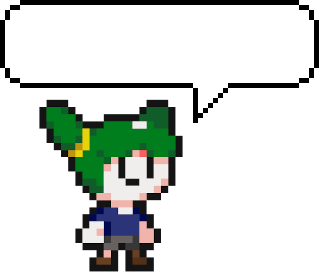
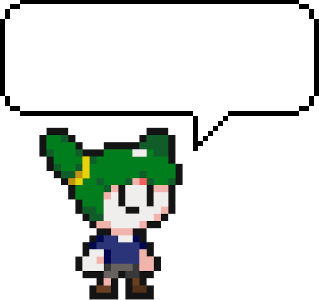
Kanitietokanta-esittelysivu lisätty, projekti-puhekuplaa suurennettu

Changed region(s): [[0.0, 0.2353, 1.0, 1.0], [0.0, 0.0, 1.0, 0.0882]]

diff --git a/Kanitietokanta.html b/Kanitietokanta.html
@@ -41,7 +41,7 @@
 
                 <div class="col-sm-12" style="display:table-cell; vertical-align:middle; text-align:center">
                     <br />
-                    <img src="img/rpgkuvat.gif" />
+                    <img src="img/kanitietokantakuvat.gif" />
                     <br />
                     <br />
                     <br />
@@ -49,25 +49,29 @@
                 <div class="row">
                     <div class="col-sm-2"></div>
                     <div class="col-sm-8">
-                        <b>Miten nämä kaksi viikkoa sitten sujuivat?</b>
+                        <b>Ajatuksia projektista</b>
                         <br />
                         <br />
-                        Muutama ensimmäinen päivä kului pitkälti tutoriaalien parissa, sillä Unity oli meille kaikille
-                        aivan uusi asia. Kun sen käyttäminen alkoi sujumaan, olikin jo huomattavasti helpompaa toteuttaa
-                        ideoitaan itsenäisesti.
+                        Oli mukavaa tehdä projektia, jolle tiesin oikeasti löytyvän käyttäjiä. Se toi suuren motivaation asioiden toteuttamiseen. 
+                        Tein kaiken itsenäisesti, joten vastuun tunne oli suuri. Oli myös todella jännittävää saada sovellus ensimmästä kertaa 
+                        testikäyttäjien kokeiltavaksi. Tämän jälkeen jatkoin sovelluksen kehitystä sekä ominaisuuksien lisäämistä käyttäjien 
+                        toiveiden mukaisesti.
+                        <br />
+                        <br />
+                        Sain mielestäni oikein kattavan kokonaiskuvan tämän kaltaisten sovellusten kehittämisestä ja etenkin tietoturva-asiat 
+                        tuli ottaa vakavasti. Toteutin sisäänkirjautumisen Auth0:lla ja tämä sujui yllättävän helposti. Tietokannan ja APIn muokkaaminen 
+                        toi alkuun hieman haasteita, mutta sain tähänkin nopeasti sopivan rutiinin ja ominaisuuksien lisääminen kävi koko ajan helpommaksi.
                         <br />
                         <br />
                         Tässä muutama highlight projektista:
                         <br />
                         <br />
                         <ul>
-                            <li>C#-osaamiseni vahvistui huomattavasti</li>
-                            <li>Ymmärrys pelien tekemisestä ja Unityn käytöstä avartui</li>
-                            <li>
-                                Tiimityö toimi saumattomasti, olimme kaikki motivoituneita ja pystyimme jakamaan tehtäviä
-                                hyvin niin, että kaikilla oli mielekästä tekemistä
-                            </li>
-                            <li>En löytänyt sopivaa spritea ongelle, joten tein sellaisen itse - ensimmäinen pikseligrafiikkani!</li>
+                            <li>Sain hyvän käsityksen mvc-sovellusten tekemisestä ja Azuresta</li>
+                            <li>Ensimmäinen kokemukseni oikeiden käyttäjien testaamisesta oli jännittävää</li>
+                            <li>Toteutin sisäänkirjautumisen ja käyttäjän todennuksen ensimmäistä kertaa</li>
+                            <li>Sovellus, jolle on todellinen tarve toi huomattavasti lisää motivaatiota aiempiin 
+                            harjoitustehtäviin verrattuna</li>
                         </ul>
                         <br />
                         <br />
@@ -96,7 +100,7 @@
                     <b>GitHub</b>
                     <br />
                     <br />
-                    <a href="https://github.com/siirilydia/Bunnies">
+                    <a href="https://github.com/siirilydia/KaniTietoKanta">
                         <img src="img/GitHub-Mark-120px-plus.png" />
                     </a>
 

diff --git a/index.html b/index.html
@@ -358,13 +358,15 @@
         }
 
         #projektiesittely {
-            top: 52vh;
+            top: 49vh;
             text-align: center;
-            width: 40vh;
-            height: 20vh;
-            /*margin-left: 1vh;*/
+            width: 38vh;
+            height: 17vh;
+            /*margin-left: 2vh;
+            margin-right: 2vh;*/
             margin-top: 7vh;
-            padding: 3.5vh;
+            /*padding: 3.5vh;*/
+            padding:3vh 5vh 10vh 5vh;
             color: black;
             font-size: 2.2vh;
             background: url(img/projektiesittely.png) no-repeat center top;
@@ -531,7 +533,7 @@
 
             </div>
             <div id="projektiesittely" data-lax-translate-x="0 6000, 2700 -elw" class="lax">
-                Tässä hieman projekteistani:
+                Tässä hieman projekteistani, <br /> lisää löydät GitHubista!
             </div>
 
 
@@ -561,7 +563,6 @@
                 <div id="muuriteksti">
                     <br />
                     <h4>Tietokanta kaninkasvattajille</h4>
-                    <br />
                     Teknologiat:
                     <br />
                     <br />
@@ -578,6 +579,8 @@
                     <br />
                     <br />
                     <a href="https://github.com/siirilydia/KaniTietoKanta">GitHub</a>
+                    <br />
+                    <a href="Kanitietokanta.html">Lisätietoja</a>
                     <br />
                     <!--<a href="#" name="skrollaa">Lisätietoja</a>-->
                     <!--<a href="2DRPG.html">Lisätietoja</a>-->
